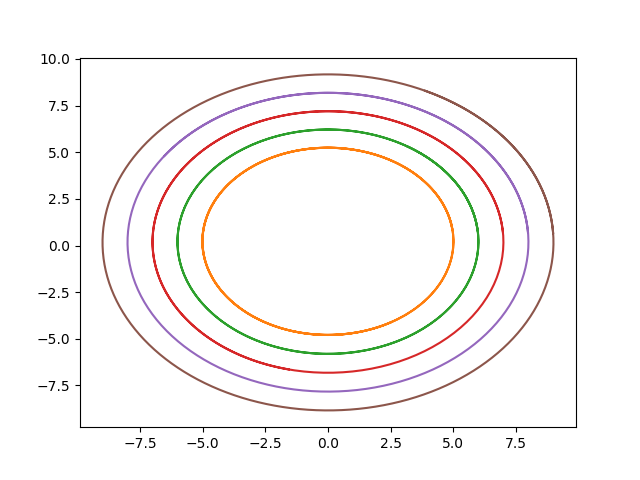
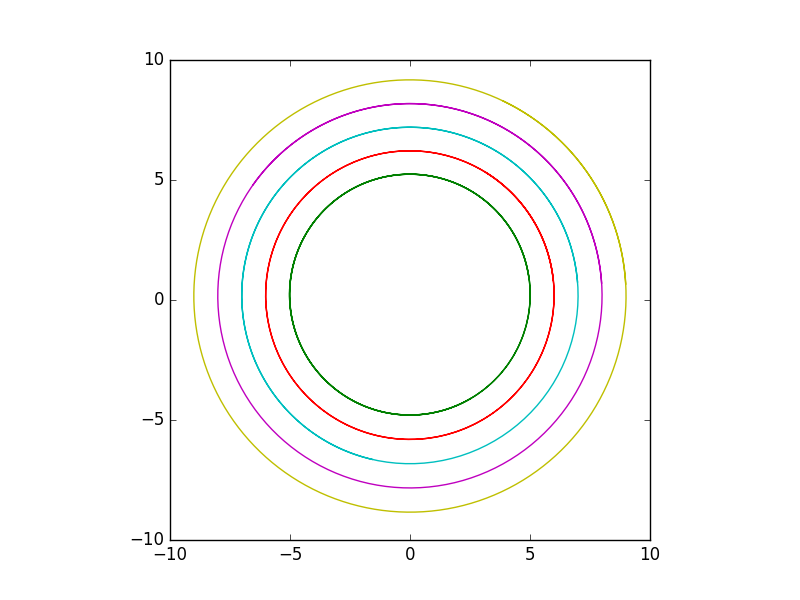
Added to Haskell Orbit program

diff --git a/PythonOrbit/pyplotOrbit.py b/PythonOrbit/pyplotOrbit.py
@@ -7,32 +7,33 @@ import sys
 import matplotlib.pyplot as plt
 import pandas as pd
 
-def plotOrbit(infile,outfile,nplots):
+def plotOrbit(infile,outfile):
         df = pd.read_csv(infile,sep=' ',header=0)
+
+        nplots = len(df.columns)
 
 
         fig = plt.figure()
-        ax = fig.add_subplot(111)
+        ax = fig.add_subplot(111,aspect='equal')
 
-        for n in range(nplots):
-                xkey = 'x'+str(n)
-                ykey = 'y'+str(n)
+        for n in range(1,nplots,2):
+                xkey = df.columns[n]
+                ykey = df.columns[n+1]
                 xs = df[xkey].get_values()
                 ys = df[ykey].get_values()
                 ax.plot(xs,ys)
 
         plt.savefig(outfile)
 
-        print("Image made!")
+        print("Image made! Plotted trajectory of {:d} mass(es).".format((nplots-1)//2))
 
         return 1
 
 def main(argv):
         infile = argv[1]
         outfile = argv[2]
-        nplot = int(argv[3])
 
-        plotOrbit(infile,outfile,nplot)
+        plotOrbit(infile,outfile)
 
 if __name__=="__main__":
         argv = sys.argv
